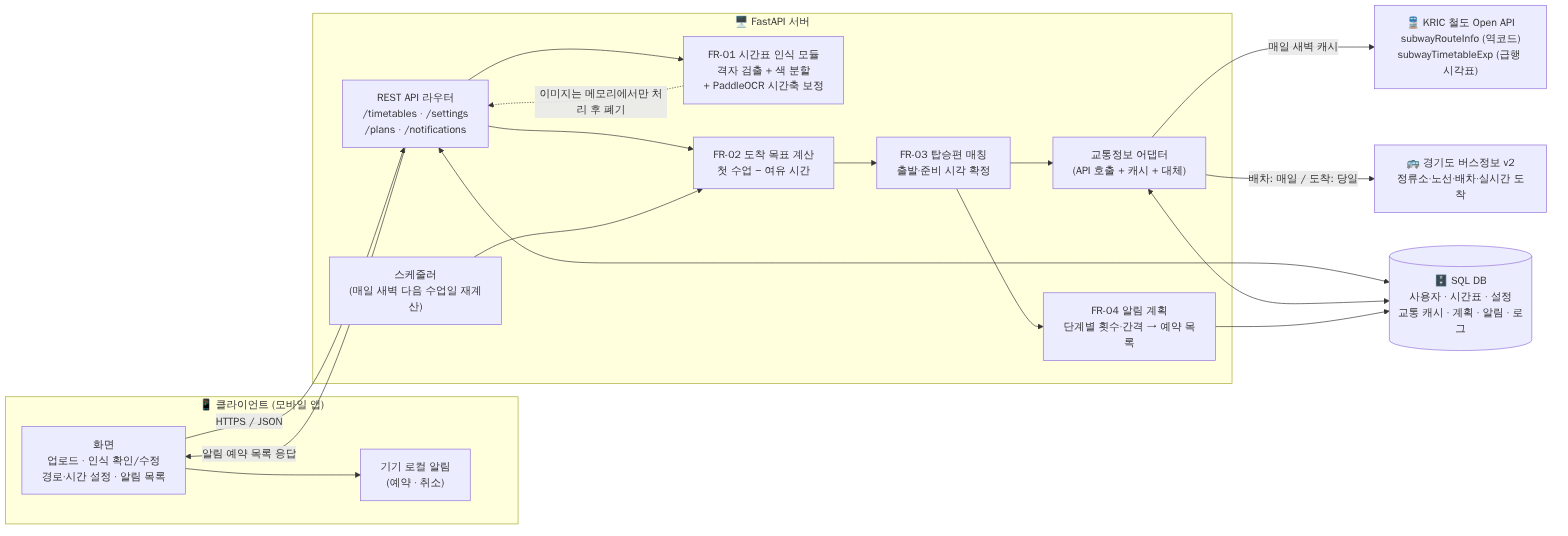
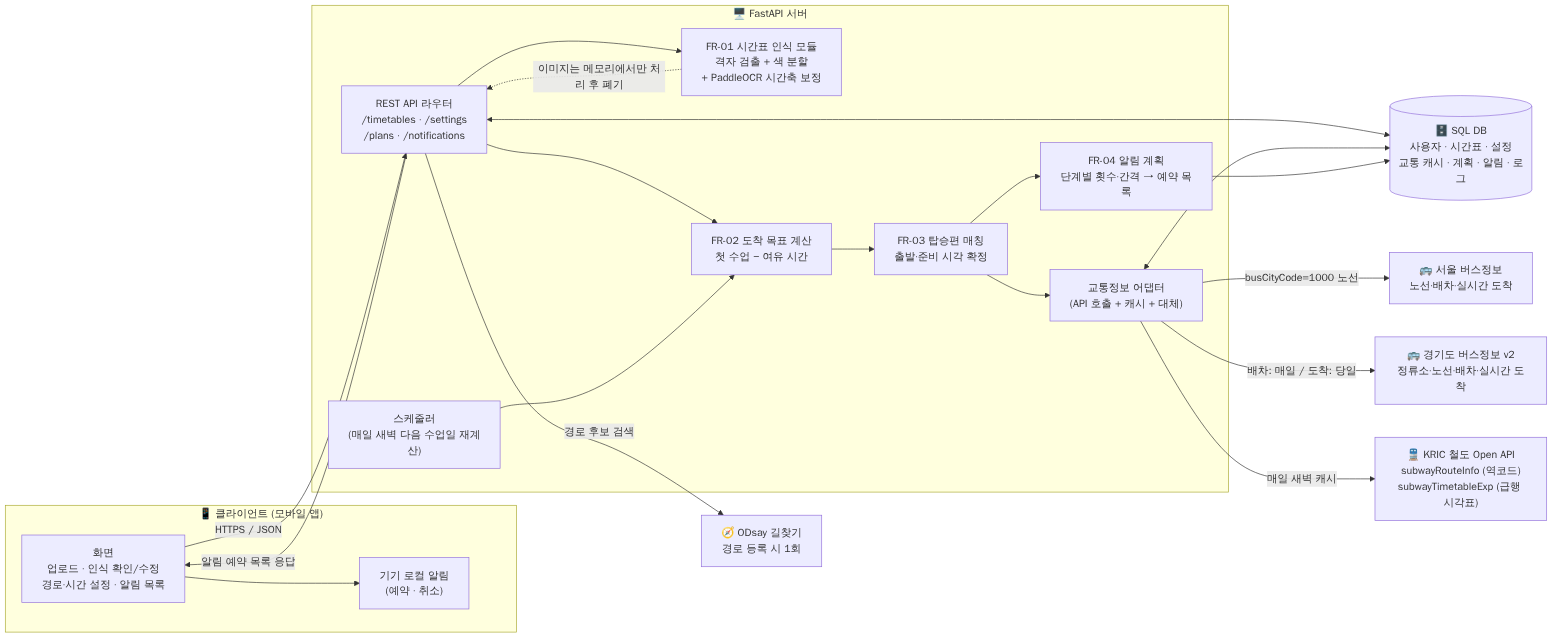
교통 API v0.2: ODsay 경로 검색, 서울 버스 API, 서울/경기 분기 규칙
- transit/route_search.py: ODsay 경로 → route_legs 변환, busCityCode로 서울/경기 분기,
  KRIC 역코드 매핑, 순환 노선 정류소 순번 선택 (테스트 5개)
- transit/clients.py: SeoulBusClient, OdsayClient 추가
- schema: route_legs에 bus_provider·역별 운영기관 코드, bus_routes 키를 (기관, 노선)으로
- transit_api.md 6절: 서울→경기, 경기→경기 호출 순서와 확인 현황

Claude-Session: https://claude.ai/code/session_01CsYrfq7rQ2tAsupGgk1eoj

diff --git a/transit/route_search.py b/transit/route_search.py
@@ -1,0 +1,99 @@
+"""ODsay 경로 검색 결과 → route_legs 구간으로 변환.
+
+경로 '검색'은 등록할 때 한 번만 ODsay로 하고, 매일의 시각 계산은 구간별 공공 API로 한다.
+ODsay가 각 구간에 지역 BIS의 노선·정류소 ID를 같이 주기 때문에 이렇게 이어 붙일 수 있다.
+
+버스 구간이 어느 기관 API를 써야 하는지는 **정류소 위치가 아니라 노선의 소속**으로 정한다.
+ODsay 문서: "수도권: busCityCode 가 1000 이면 서울, 그 외에는 경기 실시간 사용"
+  → 경기 버스가 서울 정류소에서 출발해도 경기 API, 서울 버스가 경기로 들어와도 서울 API.
+"""
+
+SEOUL_CITY_CODE = 1000
+
+# ODsay subwayCode → KRIC lnCd. 1~9호선만 확정. 그 외 노선은 KRIC 응답으로 매핑 추가 필요.
+KRIC_LINE = {i: str(i) for i in range(1, 10)}
+
+
+def bus_provider(lane):
+    return 'seoul' if int(lane.get('busCityCode', 0)) == SEOUL_CITY_CODE else 'gyeonggi'
+
+
+def legs_from_path(path):
+    """ODsay path 하나 → 집에서 학교 순서의 구간 dict 목록 (route_legs 컬럼 이름 사용)."""
+    legs = []
+    for sp in path.get('subPath', []):
+        t = int(sp['trafficType'])
+        if t == 3:          # 도보
+            if sp.get('sectionTime', 0) > 0:
+                legs.append({'kind': 'walk', 'minutes': int(sp['sectionTime'])})
+        elif t == 2:        # 버스: 같은 구간을 지나는 노선이 여러 개면 첫 번째를 기본, 나머지는 대안
+            lanes = sp.get('lane', [])
+            main = lanes[0]
+            legs.append({
+                'kind': 'bus',
+                'minutes': int(sp['sectionTime']),
+                'bus_provider': bus_provider(main),
+                'bus_route_id': str(main.get('busLocalBlID')),
+                'bus_route_name': main.get('busNo'),
+                'board_station_id': str(sp.get('startLocalStationID')),
+                'board_ars_id': sp.get('startArsID'),
+                'alight_station_id': str(sp.get('endLocalStationID')),
+                'board_stin_nm': sp.get('startName'),
+                'alight_stin_nm': sp.get('endName'),
+                'stop_count': sp.get('stationCount'),
+                'headway_hint': sp.get('intervalTime'),   # ODsay 평균 배차, 기관 API 실패 시 참고
+                'alternatives': [{'bus_route_name': l.get('busNo'), 'bus_provider': bus_provider(l),
+                                  'bus_route_id': str(l.get('busLocalBlID'))} for l in lanes[1:]],
+            })
+        elif t == 1:        # 지하철: 역 이름만 받고, KRIC 역코드는 resolve_subway_codes 에서 채움
+            lane = sp.get('lane', [{}])[0]
+            code = int(lane.get('subwayCode', 0))
+            legs.append({
+                'kind': 'subway',
+                'minutes': int(sp['sectionTime']),
+                'ln_cd': KRIC_LINE.get(code),            # None 이면 매핑 필요
+                'line_name': lane.get('name'),
+                'board_stin_nm': sp.get('startName'),
+                'alight_stin_nm': sp.get('endName'),
+                'express_only': code == 1,               # MVP: 1호선만 급행 우선
+            })
+    return legs
+
+
+def _norm(name):
+    return str(name).replace(' ', '').removesuffix('역')
+
+
+def resolve_subway_codes(legs, stations_by_line):
+    """KRIC subwayRouteInfo 결과({lnCd: [역...]})로 역 이름 → (railOprIsttCd, stinCd) 채우기.
+
+    같은 1호선이라도 서울역~청량리는 서울교통공사(S1), 그 밖은 한국철도(KR) 처럼
+    역마다 운영기관이 달라서 역 단위로 코드를 받는다.
+    """
+    missing = []
+    for leg in legs:
+        if leg['kind'] != 'subway':
+            continue
+        index = {_norm(s['stinNm']): s for s in stations_by_line.get(leg['ln_cd'], [])}
+        for side in ('board', 'alight'):
+            s = index.get(_norm(leg[f'{side}_stin_nm']))
+            if s is None:
+                missing.append(f"{leg.get('line_name')} {leg[f'{side}_stin_nm']}")
+                continue
+            leg[f'{side}_stin_cd'] = s['stinCd']
+            leg[f'{side}_rail_opr_cd'] = s.get('railOprIsttCd')
+    return missing
+
+
+def find_sta_order(route_stations, station_id, alight_station_id=None, id_key='stationId', seq_key='stationSeq'):
+    """도착정보 조회용 정류소 순번. 순환 노선은 같은 정류소가 두 번 나오므로 하차 정류소보다 앞선 순번을 고른다.
+    경기: id_key='stationId', seq_key='stationSeq' / 서울: id_key='station', seq_key='seq'"""
+    seqs = [int(s[seq_key]) for s in route_stations if str(s[id_key]) == str(station_id)]
+    if not seqs:
+        return None
+    if alight_station_id is not None:
+        ends = [int(s[seq_key]) for s in route_stations if str(s[id_key]) == str(alight_station_id)]
+        before = [q for q in seqs if any(e > q for e in ends)]
+        if before:
+            return max(before)
+    return seqs[0]

diff --git a/tests/test_route_search.py b/tests/test_route_search.py
@@ -1,0 +1,75 @@
+"""ODsay 경로 → 구간 변환과 서울/경기 분기 테스트. 응답 모양은 ODsay 레퍼런스(searchPubTransPathT) 필드 그대로."""
+from transit.route_search import find_sta_order, legs_from_path, resolve_subway_codes
+
+# 서울 출발: 서울 버스(1000) → 4호선 → 1호선 → 경기 마을버스 → 도보
+SEOUL_TO_ANYANG = {'subPath': [
+    {'trafficType': 3, 'sectionTime': 4},
+    {'trafficType': 2, 'sectionTime': 15, 'stationCount': 8, 'intervalTime': 7,
+     'lane': [{'busNo': '461', 'busLocalBlID': '100100071', 'busCityCode': 1000}],
+     'startName': '서울 정류소', 'endName': '사당역', 'startLocalStationID': '120000001',
+     'startArsID': '22-001', 'endLocalStationID': '120000002'},
+    {'trafficType': 3, 'sectionTime': 3},
+    {'trafficType': 1, 'sectionTime': 18, 'lane': [{'name': '수도권 4호선', 'subwayCode': 4}],
+     'startName': '사당', 'endName': '금정'},
+    {'trafficType': 3, 'sectionTime': 2},
+    {'trafficType': 1, 'sectionTime': 6, 'lane': [{'name': '수도권 1호선', 'subwayCode': 1}],
+     'startName': '금정', 'endName': '안양'},
+    {'trafficType': 3, 'sectionTime': 2},
+    {'trafficType': 2, 'sectionTime': 8, 'stationCount': 5, 'intervalTime': 12,
+     'lane': [{'busNo': '2', 'busLocalBlID': '241000001', 'busCityCode': 41},
+              {'busNo': '10-1', 'busLocalBlID': '241000002', 'busCityCode': 41}],
+     'startName': '안양역', 'endName': '안양대학교', 'startLocalStationID': '213000001',
+     'endLocalStationID': '213000002'},
+    {'trafficType': 3, 'sectionTime': 0},
+]}
+
+# 경기 → 서울을 지나는 경기 버스: 정류소가 서울에 있어도 노선이 경기 소속이면 경기 API
+GG_BUS_FROM_SEOUL_STOP = {'subPath': [
+    {'trafficType': 2, 'sectionTime': 30, 'lane': [{'busNo': '9-3', 'busLocalBlID': '234000001', 'busCityCode': 31}],
+     'startName': '사당역(서울)', 'endName': '안양대학교', 'startLocalStationID': '119000001',
+     'endLocalStationID': '213000002'},
+]}
+
+# 역코드·도시코드는 가상값 (실제 값은 KRIC·ODsay 응답으로 확인)
+KRIC_STATIONS = {
+    '4': [{'stinNm': '사당', 'stinCd': '433', 'railOprIsttCd': 'S1'},
+          {'stinNm': '금정', 'stinCd': '443', 'railOprIsttCd': 'KR'}],
+    '1': [{'stinNm': '금정', 'stinCd': '1709', 'railOprIsttCd': 'KR'},
+          {'stinNm': '안양', 'stinCd': '1707', 'railOprIsttCd': 'KR'}],
+}
+
+
+def test_kinds_and_order_kept():
+    legs = legs_from_path(SEOUL_TO_ANYANG)
+    assert [l['kind'] for l in legs] == ['walk', 'bus', 'walk', 'subway', 'walk', 'subway', 'walk', 'bus']
+
+
+def test_bus_provider_by_route_city_code():
+    legs = legs_from_path(SEOUL_TO_ANYANG)
+    buses = [l for l in legs if l['kind'] == 'bus']
+    assert buses[0]['bus_provider'] == 'seoul' and buses[0]['bus_route_id'] == '100100071'
+    assert buses[1]['bus_provider'] == 'gyeonggi' and buses[1]['alternatives'][0]['bus_route_name'] == '10-1'
+    # 서울에 있는 정류소에서 타도 경기 노선이면 경기 API
+    assert legs_from_path(GG_BUS_FROM_SEOUL_STOP)[0]['bus_provider'] == 'gyeonggi'
+
+
+def test_subway_codes_resolved_per_station_operator():
+    legs = legs_from_path(SEOUL_TO_ANYANG)
+    assert resolve_subway_codes(legs, KRIC_STATIONS) == []
+    line4, line1 = [l for l in legs if l['kind'] == 'subway']
+    assert (line4['board_rail_opr_cd'], line4['alight_rail_opr_cd']) == ('S1', 'KR')   # 운영기관이 바뀌는 구간
+    assert line4['express_only'] is False and line1['express_only'] is True
+    assert (line1['board_stin_cd'], line1['alight_stin_cd']) == ('1709', '1707')
+
+
+def test_missing_station_reported():
+    legs = legs_from_path(SEOUL_TO_ANYANG)
+    assert resolve_subway_codes(legs, {'1': KRIC_STATIONS['1']}) == ['수도권 4호선 사당', '수도권 4호선 금정']
+
+
+def test_sta_order_picks_occurrence_before_alight_on_loop_route():
+    # 순환 노선: 정류소 A가 1번, 9번에 두 번 나오고 하차 B는 5번 → 1번을 골라야 함
+    gg = [{'stationId': 'A', 'stationSeq': 1}, {'stationId': 'B', 'stationSeq': 5}, {'stationId': 'A', 'stationSeq': 9}]
+    assert find_sta_order(gg, 'A', 'B') == 1
+    seoul = [{'station': 'S', 'seq': '3'}, {'station': 'T', 'seq': '7'}]
+    assert find_sta_order(seoul, 'S', 'T', id_key='station', seq_key='seq') == 3

diff --git a/transit/clients.py b/transit/clients.py
@@ -2,9 +2,11 @@
 
 - KRIC(철도산업정보센터, openapi.kric.go.kr): 1호선 역 코드, 열차별 운행시각표(급행 표시)
 - 경기도 버스(공공데이터포털, apis.data.go.kr/6410000): 정류소·노선·배차·실시간 도착
+- 서울 버스(공공데이터포털 키, ws.bus.go.kr — HTTP 전용): 노선 배차·경유 정류소·실시간 도착
+- ODsay(api.odsay.com): 대중교통 경로 검색 — 경로 등록할 때만 호출
 
-두 기관 모두 인증키를 **쿼리 파라미터 serviceKey** 로 받는다.
-키는 코드에 넣지 않고 환경변수 KRIC_KEY, DATA_GO_KR_KEY 로 읽는다.
+인증키는 모두 **쿼리 파라미터**로 넘긴다. 코드에 넣지 않고 환경변수로 읽는다:
+  KRIC_KEY, DATA_GO_KR_KEY(경기·서울 버스 공용), ODSAY_KEY
 """
 import os
 
@@ -125,3 +127,61 @@ class GyeonggiBusClient:
         items = self._get('busarrivalservice/v2/getBusArrivalItemv2', 'busArrivalItem',
                           stationId=station_id, routeId=route_id, staOrder=sta_order)
         return items[0] if items else None
+
+
+class SeoulBusClient:
+    """서울시 버스정보 (data.go.kr 키 공용). 서울 시내버스(ODsay busCityCode=1000) 구간에 사용."""
+
+    BASE = 'http://ws.bus.go.kr/api/rest'   # 기관이 HTTP만 제공
+
+    def __init__(self, key=None, session=None):
+        self.key = key or os.environ.get('DATA_GO_KR_KEY')
+        if not self.key:
+            raise ApiError('DATA_GO_KR_KEY 환경변수가 없습니다')
+        self.http = session or requests.Session()
+
+    def _get(self, path, **params):
+        r = self.http.get(f'{self.BASE}/{path}',
+                          params={'serviceKey': self.key, 'resultType': 'json', **params}, timeout=TIMEOUT)
+        data = r.json()
+        head = data.get('msgHeader') or data.get('comMsgHeader') or {}
+        if str(head.get('headerCd', '0')) not in ('0', '4'):   # 4 = 결과 없음
+            raise ApiError(f"서울버스 {path}: {head.get('headerCd')} {head.get('headerMsg')}")
+        items = (data.get('msgBody') or {}).get('itemList') or []
+        return items if isinstance(items, list) else [items]
+
+    def route_info(self, bus_route_id):
+        """배차간격 term(분), 첫차 firstBusTm, 막차 lastBusTm."""
+        items = self._get('busRouteInfo/getRouteInfo', busRouteId=bus_route_id)
+        return items[0] if items else None
+
+    def route_stations(self, bus_route_id):
+        """경유 정류소: seq(순번), station(정류소 고유 ID = stId), arsId, stationNm."""
+        return self._get('busRouteInfo/getStaionByRoute', busRouteId=bus_route_id)
+
+    def arrival(self, st_id, bus_route_id, ord_):
+        """다음 버스 2대: exps1/exps2(도착 예정 초), traTime1, arrmsg1."""
+        items = self._get('arrive/getArrInfoByRoute', stId=st_id, busRouteId=bus_route_id, ord=ord_)
+        return items[0] if items else None
+
+
+class OdsayClient:
+    """ODsay 대중교통 길찾기. 키는 서버 IP 등록 방식(플랫폼 '서버', 최대 5개)."""
+
+    BASE = 'https://api.odsay.com/v1/api'
+
+    def __init__(self, key=None, session=None):
+        self.key = key or os.environ.get('ODSAY_KEY')
+        if not self.key:
+            raise ApiError('ODSAY_KEY 환경변수가 없습니다 (lab.odsay.com 에서 발급)')
+        self.http = session or requests.Session()
+
+    def search_paths(self, sx, sy, ex, ey, path_type=0):
+        """도시내 경로 후보. path_type: 0 전체, 1 지하철만, 2 버스만. 좌표는 WGS84 (경도, 위도)."""
+        r = self.http.get(f'{self.BASE}/searchPubTransPathT', params={
+            'apiKey': self.key, 'SX': sx, 'SY': sy, 'EX': ex, 'EY': ey,
+            'OPT': 0, 'SearchPathType': path_type}, timeout=TIMEOUT)
+        data = r.json()
+        if 'error' in data:
+            raise ApiError(f"ODsay: {data['error']}")
+        return data['result'].get('path', [])
